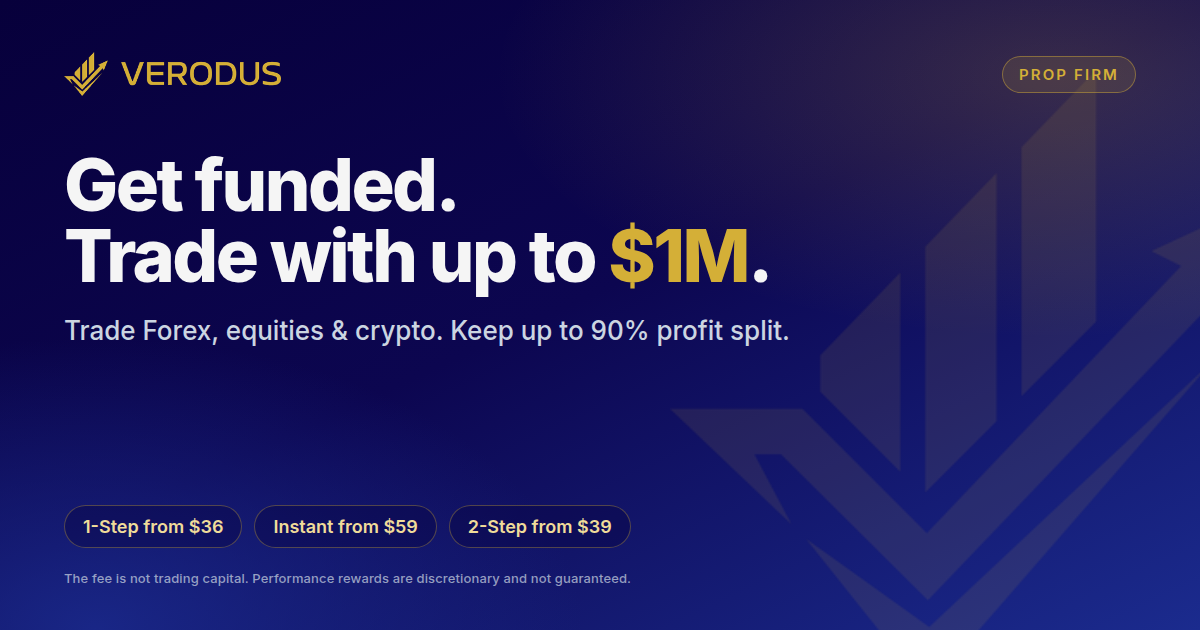
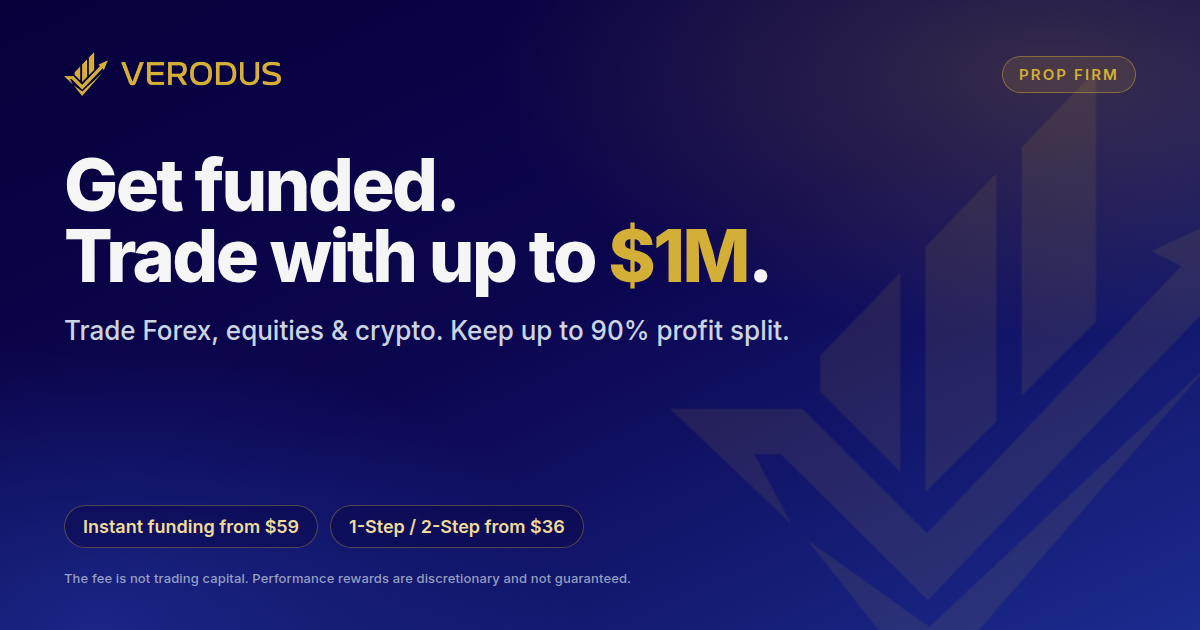
Lead the description with Instant funding from $59
Wording is Instant funding from $59 or pass a 1-Step / 2-Step from $36,
then the live Forex / $1M / 90% line. 136 characters.

Changed region(s): [[0.0617, 0.8143, 0.5242, 0.8746]]

diff --git a/ads/meta/tags/index.html b/ads/meta/tags/index.html
@@ -9,7 +9,7 @@
 
     <title>Verodus | Get Funded & Trade — Up to $1M Capital</title>
     <!-- VERO35 shopper floors, 16 Aug 2026 rec card: 1-Step $36 · 2-Step $39 · Instant $59 ($5k). -->
-    <meta name="description" content="Pass a 1-Step or 2-Step from $36, or Instant from $59. Trade Forex, equities & crypto with up to $1M, keep up to 90% profit split.">
+    <meta name="description" content="Instant funding from $59 or pass a 1-Step / 2-Step from $36. Trade Forex, equities & crypto with up to $1M, keep up to 90% profit split.">
     <meta name="robots" content="index, follow, max-image-preview:large, max-snippet:-1, max-video-preview:-1">
     <link rel="canonical" href="https://www.verodus.com/">
 
@@ -23,20 +23,20 @@
     <meta property="og:locale:alternate" content="pt_BR">
     <meta property="og:url" content="https://www.verodus.com/">
     <meta property="og:title" content="Verodus | Get Funded & Trade — Up to $1M Capital">
-    <meta property="og:description" content="Pass a 1-Step or 2-Step from $36, or Instant from $59. Trade Forex, equities & crypto with up to $1M, keep up to 90% profit split.">
+    <meta property="og:description" content="Instant funding from $59 or pass a 1-Step / 2-Step from $36. Trade Forex, equities & crypto with up to $1M, keep up to 90% profit split.">
     <meta property="og:image" content="https://www.verodus.com/images/og-default.webp">
     <meta property="og:image:secure_url" content="https://www.verodus.com/images/og-default.webp">
     <meta property="og:image:type" content="image/webp">
     <meta property="og:image:width" content="1200">
     <meta property="og:image:height" content="630">
-    <meta property="og:image:alt" content="Verodus prop firm. 1-Step from $36, Instant from $59. Up to $1M capital, keep up to 90% profit split.">
+    <meta property="og:image:alt" content="Verodus prop firm. Instant funding from $59 or pass a 1-Step / 2-Step from $36. Up to $1M, keep up to 90% profit split.">
 
     <meta name="twitter:card" content="summary_large_image">
     <meta name="twitter:site" content="@VerodusOfficial">
     <meta name="twitter:title" content="Verodus | Get Funded & Trade — Up to $1M Capital">
-    <meta name="twitter:description" content="Pass a 1-Step or 2-Step from $36, or Instant from $59. Trade Forex, equities & crypto with up to $1M, keep up to 90% profit split.">
+    <meta name="twitter:description" content="Instant funding from $59 or pass a 1-Step / 2-Step from $36. Trade Forex, equities & crypto with up to $1M, keep up to 90% profit split.">
     <meta name="twitter:image" content="https://www.verodus.com/images/og-default.webp">
-    <meta name="twitter:image:alt" content="Verodus prop firm. 1-Step from $36, Instant from $59. Up to $1M capital, keep up to 90% profit split.">
+    <meta name="twitter:image:alt" content="Verodus prop firm. Instant funding from $59 or pass a 1-Step / 2-Step from $36. Up to $1M, keep up to 90% profit split.">
 
     <meta name="theme-color" content="#1b2b8e">
     <script type="application/ld+json">
@@ -193,7 +193,7 @@
         <p class="lead">Complete HTML for the Verodus prop firm. Copy the <code>&lt;head&gt;</code> into the live header. Prices are the 16 Aug VERO35 shopper floors: 1-Step <strong>$36</strong>, 2-Step <strong>$39</strong>, Instant <strong>$59</strong>. Replace the two placeholders, then upload the 1200×630 share image.</p>
 
         <div class="card">
-            <img src="og-default.png" width="1200" height="630" alt="Verodus prop firm. 1-Step from $36, Instant from $59. Up to $1M capital, keep up to 90% profit split.">
+            <img src="og-default.png" width="1200" height="630" alt="Verodus prop firm. Instant funding from $59 or pass a 1-Step / 2-Step from $36. Up to $1M, keep up to 90% profit split.">
         </div>
 
         <h2>Replace before publish</h2>

diff --git a/ads/meta/tags/build_og.py b/ads/meta/tags/build_og.py
@@ -124,9 +124,8 @@ def html() -> str:
     <h1>Get funded.<br>Trade with up to <em>$1M</em>.</h1>
     <p class="sub">Trade Forex, equities &amp; crypto. Keep up to 90% profit split.</p>
     <div class="chips">
-      <span class="chip">1-Step from $36</span>
-      <span class="chip">Instant from $59</span>
-      <span class="chip">2-Step from $39</span>
+      <span class="chip">Instant funding from $59</span>
+      <span class="chip">1-Step / 2-Step from $36</span>
     </div>
     <p class="disclaimer">The fee is not trading capital. Performance rewards are discretionary and not guaranteed.</p>
   </div>

diff --git a/ads/meta/tags/README.md b/ads/meta/tags/README.md
@@ -4,6 +4,6 @@
 
 Title keeps the live SERP line (`Get Funded & Trade — Up to $1M Capital`). Description adds Instant at its own floor:
 
-`Pass a 1-Step or 2-Step from $36, or Instant from $59. Trade Forex, equities & crypto with up to $1M, keep up to 90% profit split.`
+`Instant funding from $59 or pass a 1-Step / 2-Step from $36. Trade Forex, equities & crypto with up to $1M, keep up to 90% profit split.`
 
 Replace `FACEBOOK_DOMAIN_VERIFICATION_CODE` and `PIXEL_ID` before publish. Upload `og-default.webp` to `https://www.verodus.com/images/og-default.webp`.
